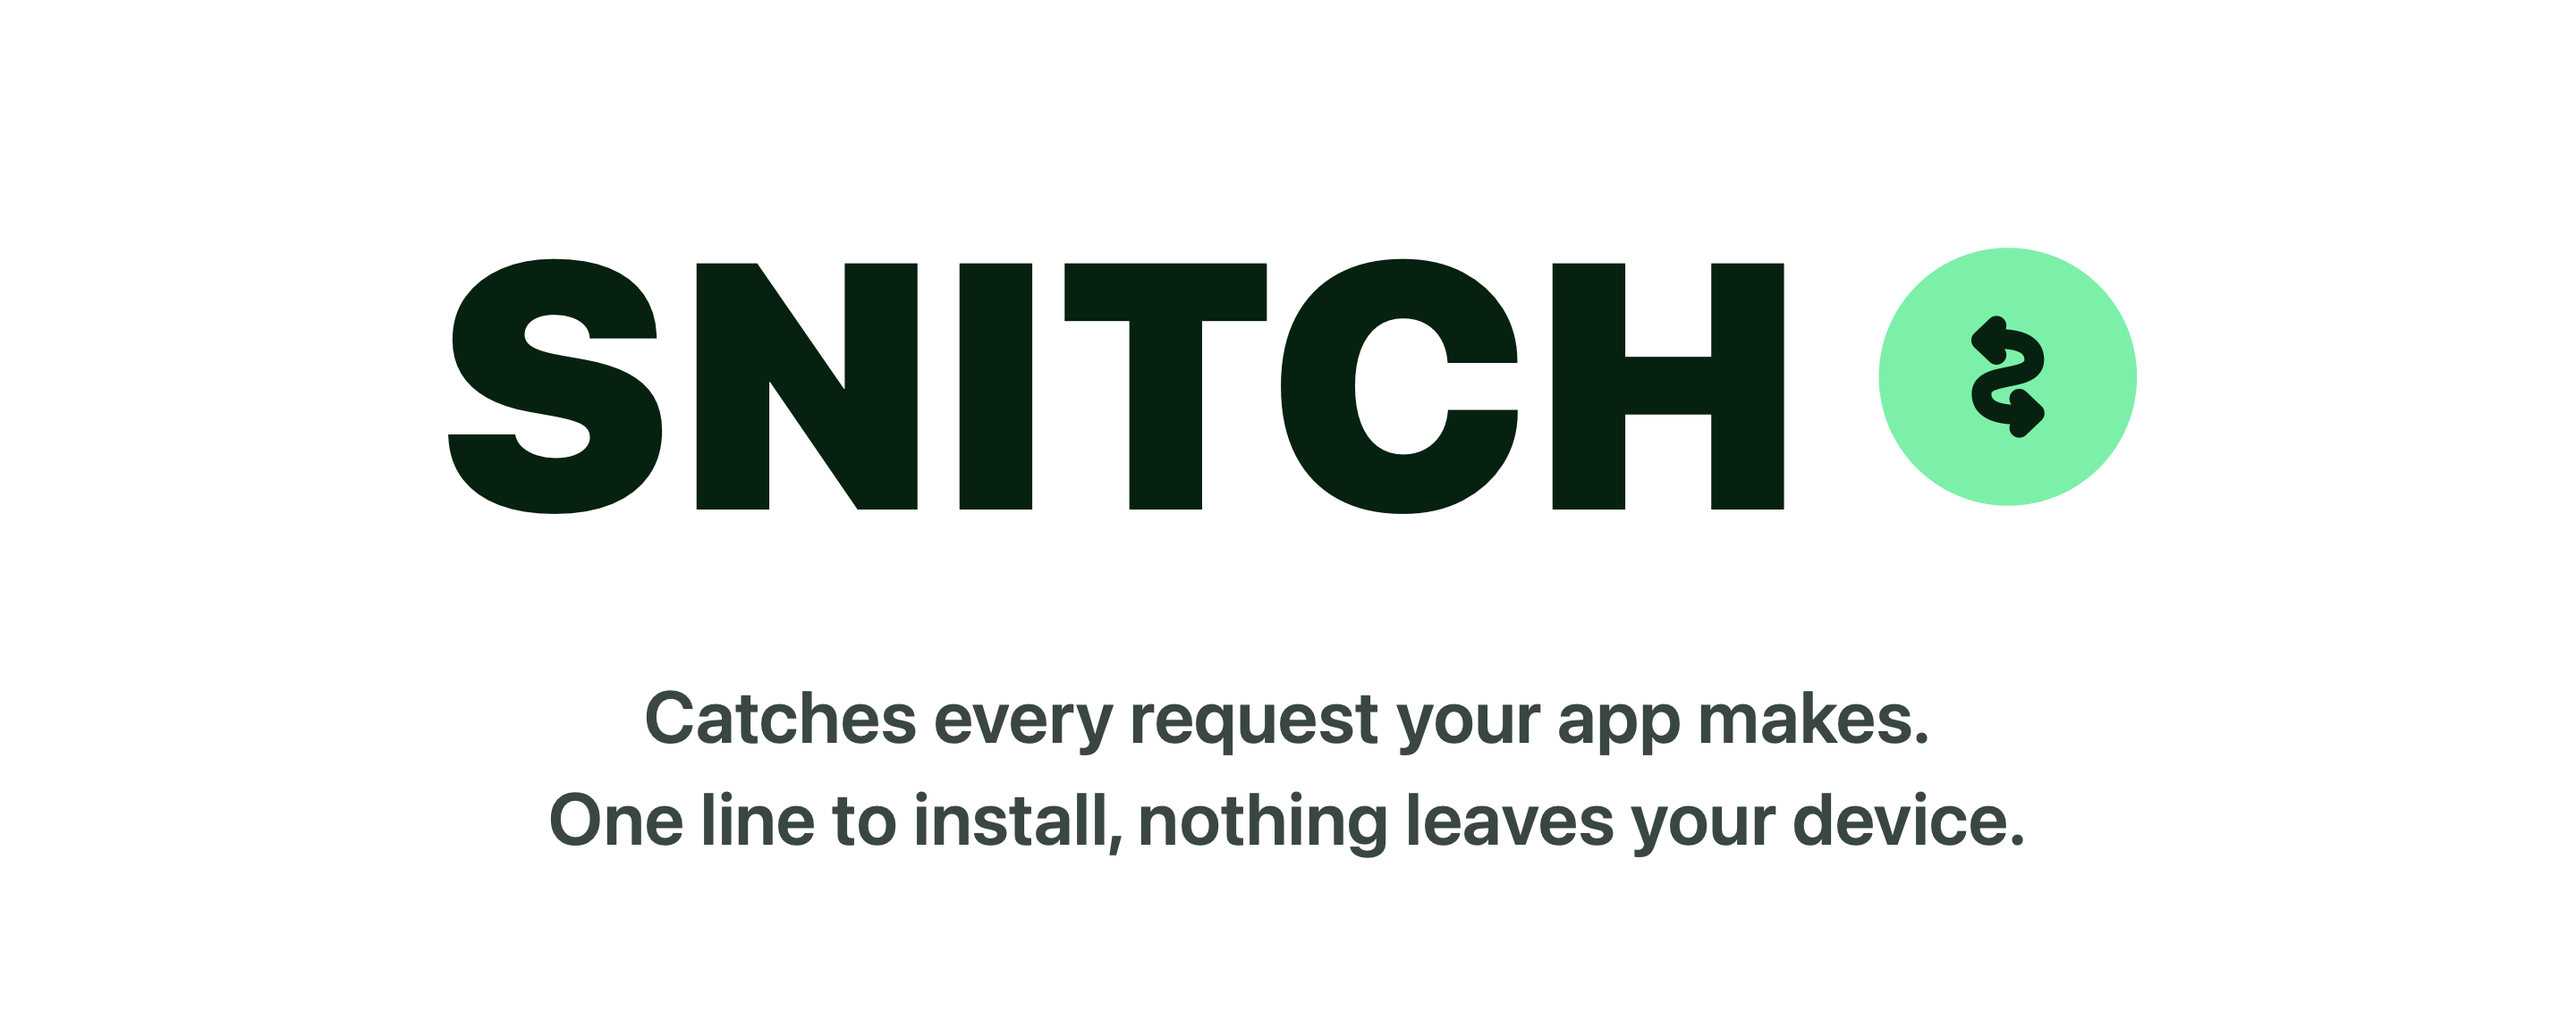
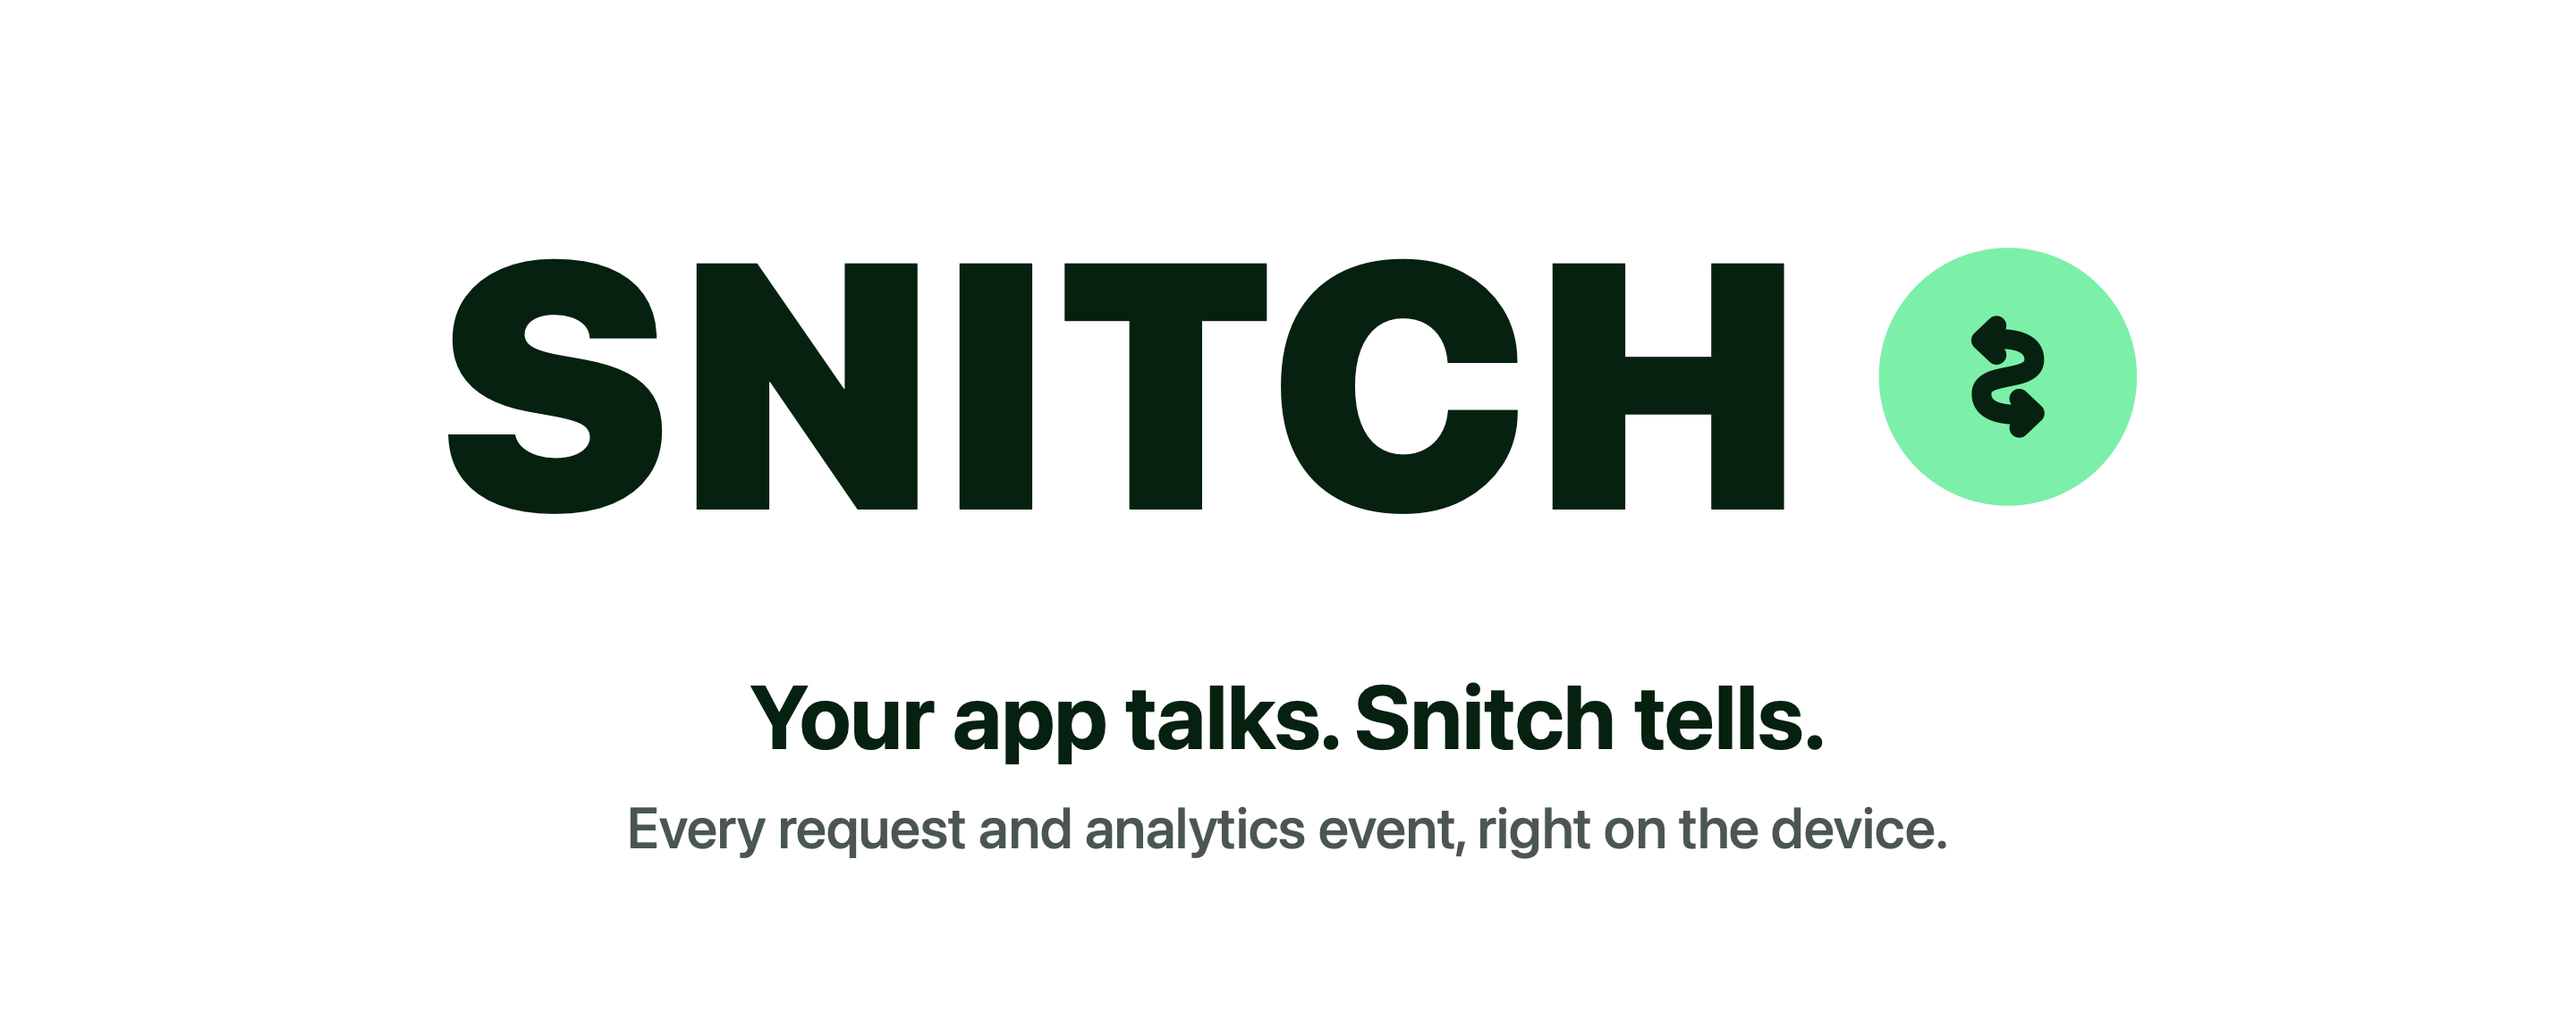
Give the README a new tagline and a clearer order
Your app talks. Snitch tells. The planned list is gone, and the screenshots and demos are now split by the text sections.

Changed region(s): [[0.1875, 0.6808, 0.7812, 0.8665]]

diff --git a/README.md b/README.md
@@ -1,5 +1,5 @@
 <p align="center">
-  <img src="docs/banner.png" width="600" alt="Snitch — catches every request your app makes. One line to install, nothing leaves your device.">
+  <img src="docs/banner.png" width="600" alt="Snitch — your app talks, Snitch tells. Every request and analytics event, right on the device.">
 </p>
 
 <p align="center">
@@ -24,21 +24,6 @@ See what your iOS app sends and logs: network requests and analytics events, eac
 <td align="center" width="33%"><img src="docs/overview-detail.png" width="240" alt="A request's detail screen"><br><sub>Request detail</sub></td>
 <td align="center" width="33%"><img src="docs/overview-event-detail.png" width="240" alt="A PostHog event's detail screen"><br><sub>PostHog event</sub></td>
 <td align="center" width="33%"><img src="docs/overview-appsflyer-detail.png" width="240" alt="An AppsFlyer event's detail screen"><br><sub>AppsFlyer event</sub></td>
-</tr>
-</table>
-
-### See it in action
-
-<table>
-<tr>
-<td valign="top" width="33%"><p align="center"><img src="docs/demo-network.gif" width="240" alt="Opening the inspector, searching, filtering and reading a request"></p><sub><b>Find requests</b><br>Search, filters, hidden headers, pretty or raw bodies, find in body</sub></td>
-<td valign="top" width="33%"><p align="center"><img src="docs/demo-copy.gif" width="240" alt="Copying a request, a header and a cURL command"></p><sub><b>Copy and share</b><br>Long press to copy, a copy button you can drag, cURL</sub></td>
-<td valign="top" width="33%"><p align="center"><img src="docs/demo-events.gif" width="240" alt="Swiping between screens and following an event to its upload"></p><sub><b>Follow events</b><br>Swipe between screens, open an event's upload and its other events</sub></td>
-</tr>
-<tr>
-<td valign="top"><p align="center"><img src="docs/demo-pause.gif" width="240" alt="Pausing, resuming and clearing the timeline"></p><sub><b>Pause and clear</b><br>Paused time shows as a gap; clearing leaves your app alone</sub></td>
-<td valign="top"><p align="center"><img src="docs/demo-theme.gif" width="240" alt="The inspector switching between light and dark mode"></p><sub><b>Light and dark</b><br>Follows the device's appearance</sub></td>
-<td valign="top"><p align="center"><img src="docs/demo-button.gif" width="240" alt="Dragging the floating button and tapping it to open the inspector"></p><sub><b>Floating button</b><br>Drag it anywhere; a red dot means new failed requests. Tap to open, or shake</sub></td>
 </tr>
 </table>
 
@@ -76,10 +61,20 @@ Snitch is an in-app debugging tool for iOS. It records your app's own `URLSessio
 - An optional `SnitchAppsFlyer` product that shows every in-app event your app logs to AppsFlyer
 - One line to set up: your app's own AppsFlyer calls stay as they are
 
-## Planned
+## See it in action
 
-- HAR export
-- Header and body redaction
+<table>
+<tr>
+<td valign="top" width="33%"><p align="center"><img src="docs/demo-network.gif" width="240" alt="Opening the inspector, searching, filtering and reading a request"></p><sub><b>Find requests</b><br>Search, filters, hidden headers, pretty or raw bodies, find in body</sub></td>
+<td valign="top" width="33%"><p align="center"><img src="docs/demo-copy.gif" width="240" alt="Copying a request, a header and a cURL command"></p><sub><b>Copy and share</b><br>Long press to copy, a copy button you can drag, cURL</sub></td>
+<td valign="top" width="33%"><p align="center"><img src="docs/demo-events.gif" width="240" alt="Swiping between screens and following an event to its upload"></p><sub><b>Follow events</b><br>Swipe between screens, open an event's upload and its other events</sub></td>
+</tr>
+<tr>
+<td valign="top"><p align="center"><img src="docs/demo-pause.gif" width="240" alt="Pausing, resuming and clearing the timeline"></p><sub><b>Pause and clear</b><br>Paused time shows as a gap; clearing leaves your app alone</sub></td>
+<td valign="top"><p align="center"><img src="docs/demo-theme.gif" width="240" alt="The inspector switching between light and dark mode"></p><sub><b>Light and dark</b><br>Follows the device's appearance</sub></td>
+<td valign="top"><p align="center"><img src="docs/demo-button.gif" width="240" alt="Dragging the floating button and tapping it to open the inspector"></p><sub><b>Floating button</b><br>Drag it anywhere; a red dot means new failed requests. Tap to open, or shake</sub></td>
+</tr>
+</table>
 
 ## Installation
 
